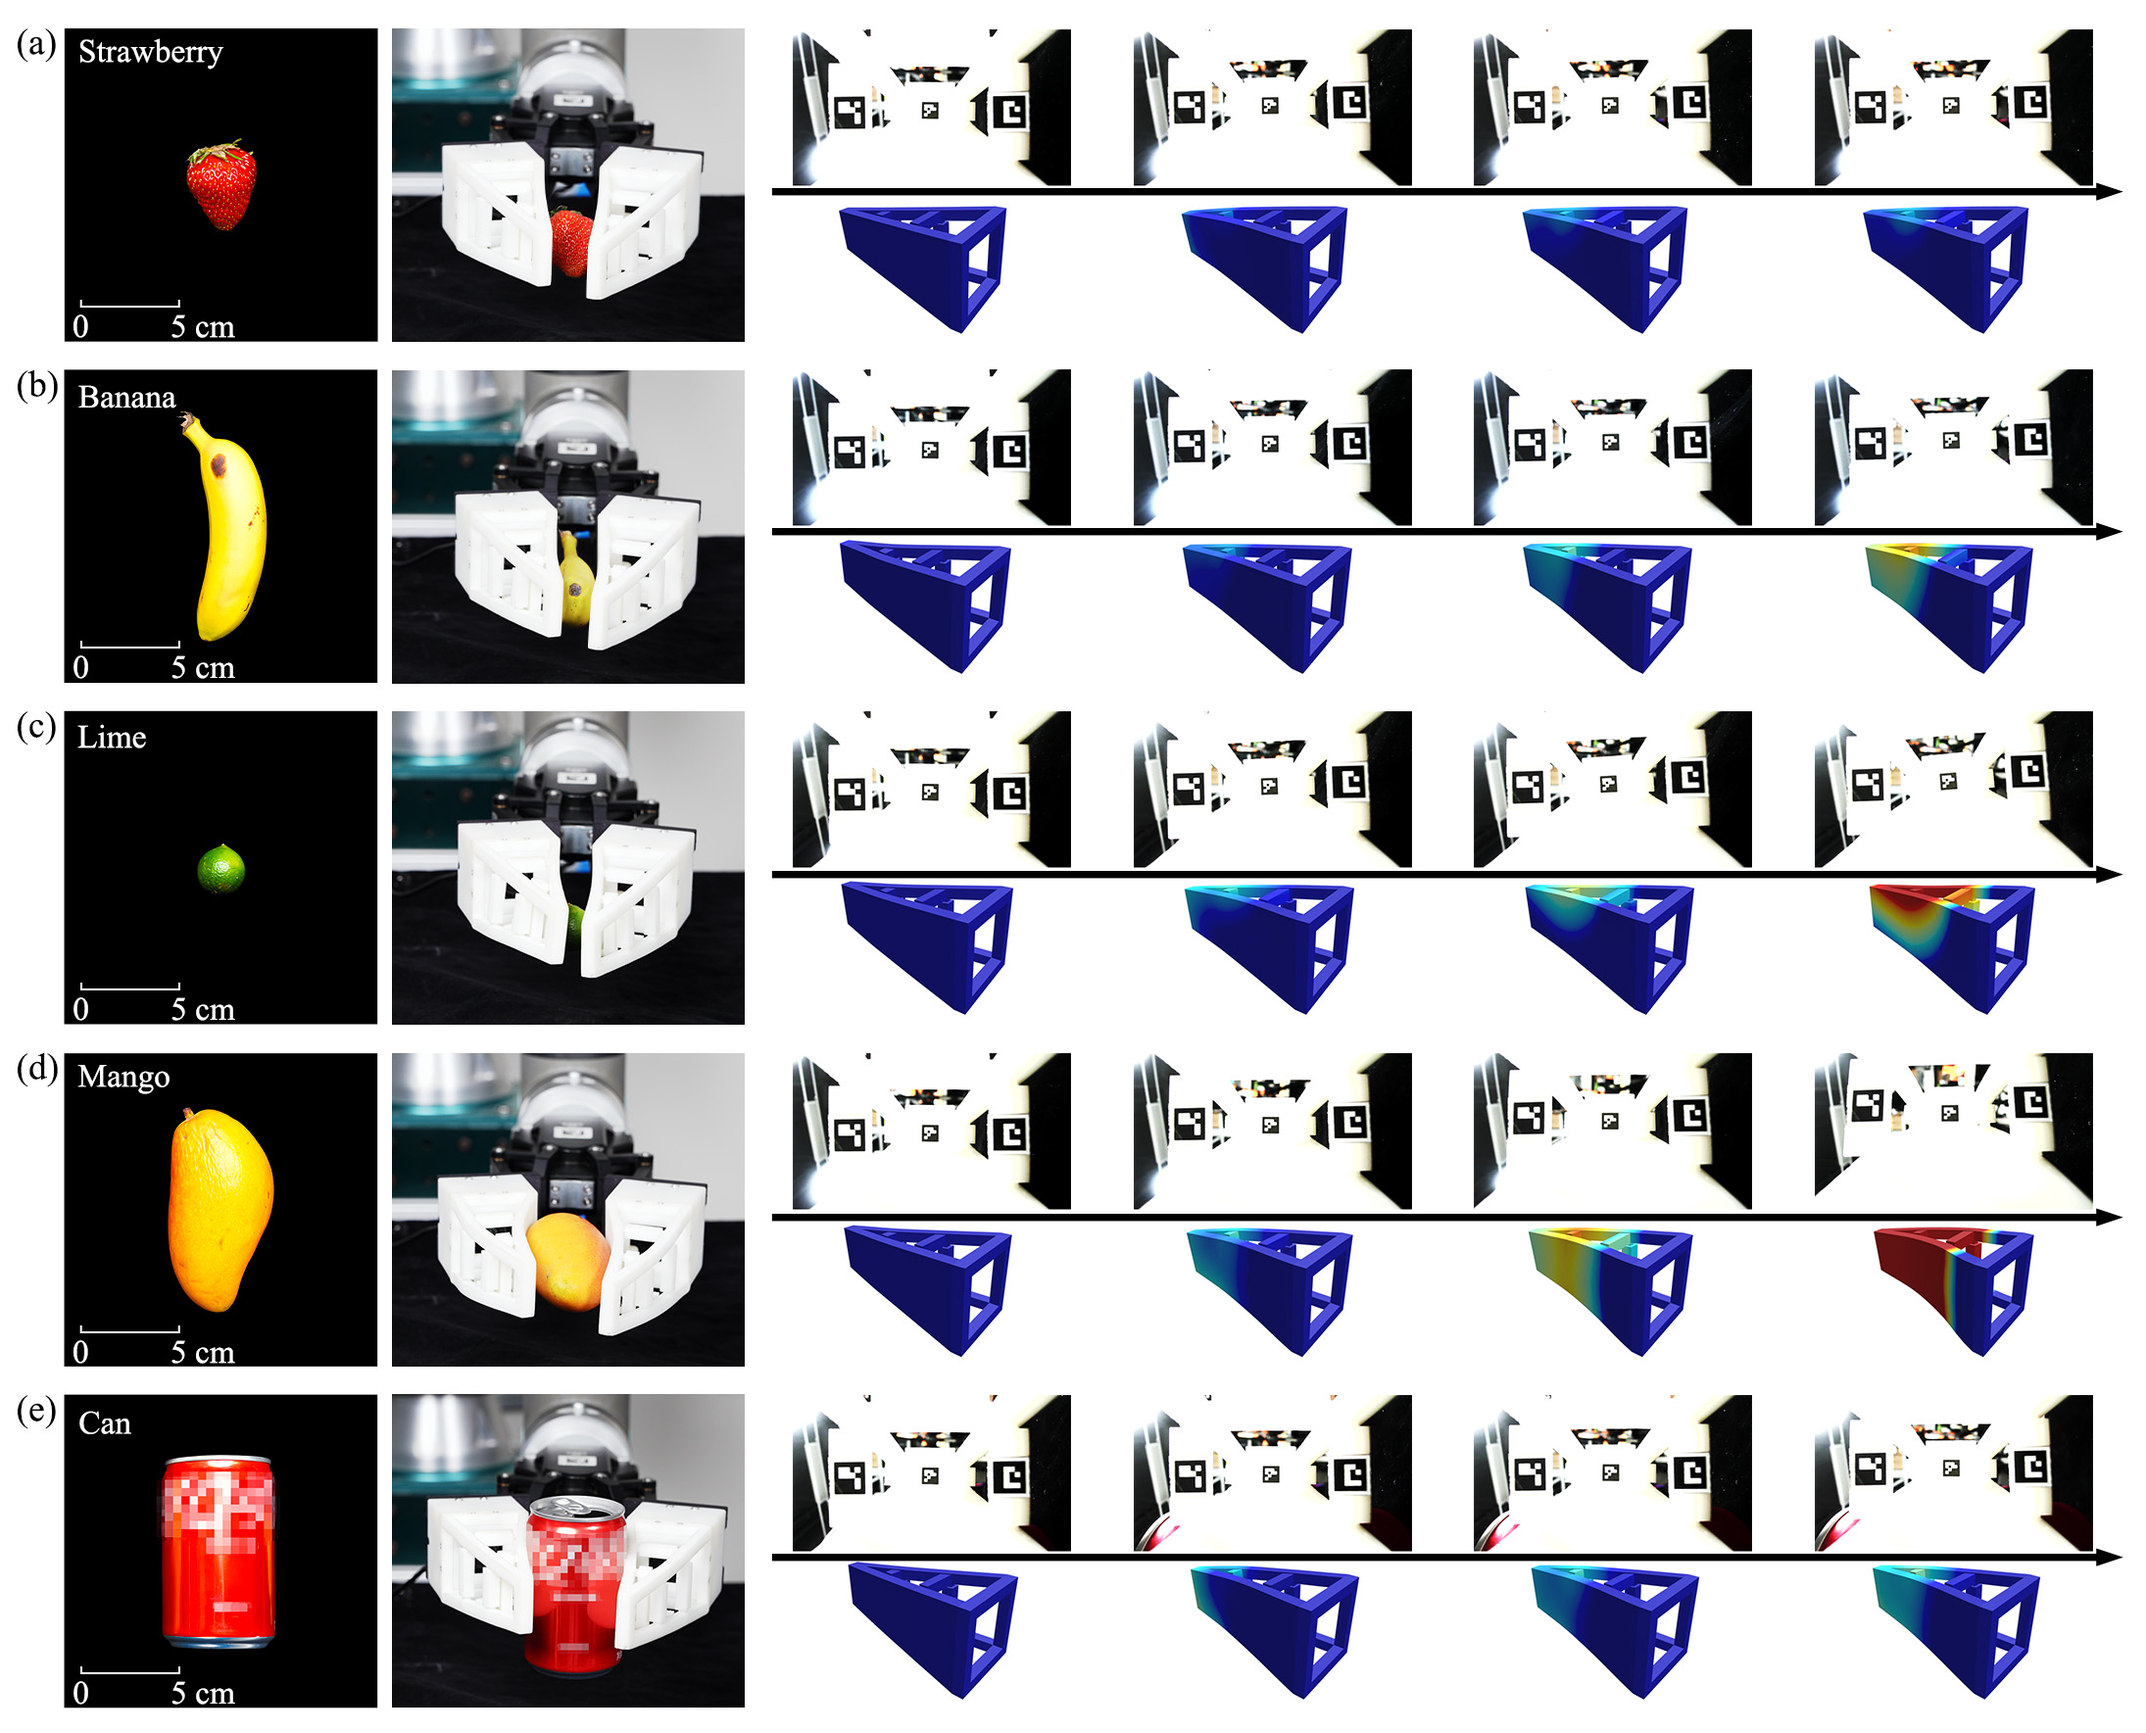
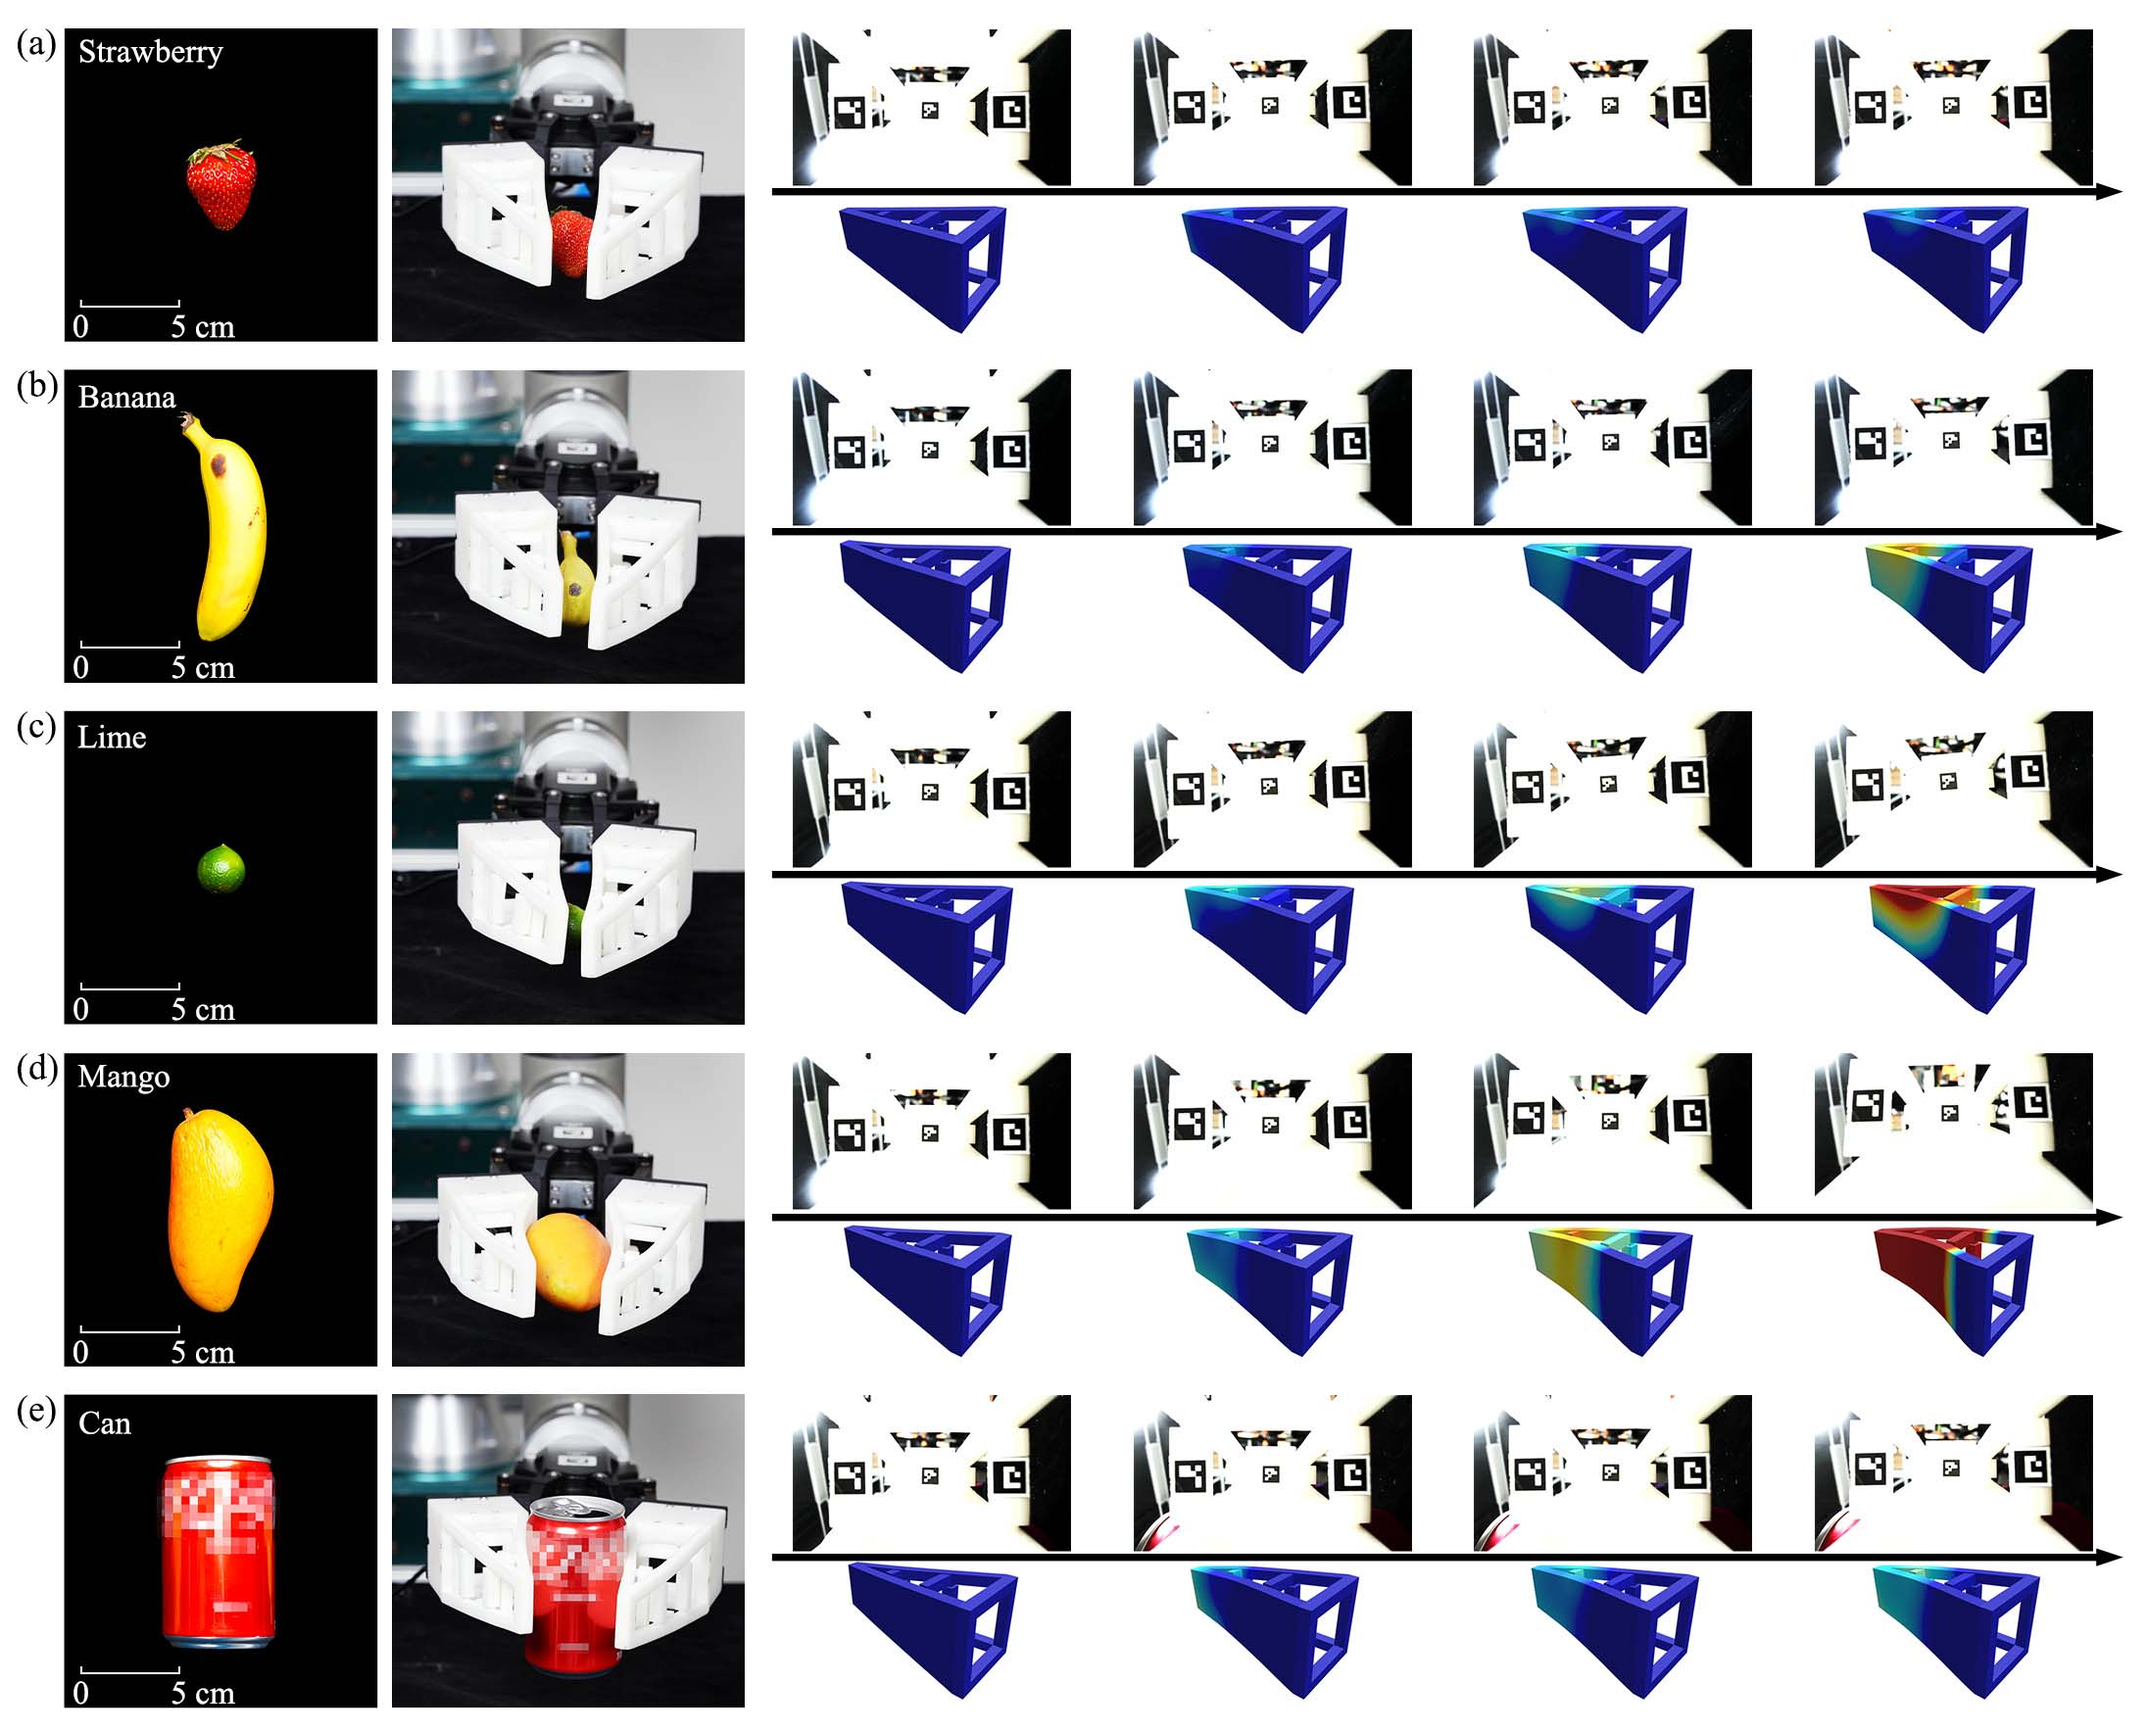
new file:   images/adaptive_grasp.jpg 	deleted:    images/adaptive_grasp.png 	new file:   images/contact_path.jpg 	deleted:    images/contact_path.png 	new file:   images/finger_design.jpg 	deleted:    images/finger_design.png 	new file:   images/force_estimation.jpg 	deleted:    images/force_estima

diff --git a/index.html b/index.html
@@ -162,7 +162,7 @@
             </p>
           </div>
           <div class="content">
-            <img src="images/finger_design.png" width="1000px" alt="finger design"></img>
+            <img src="images/finger_design.jpg" width="1000px" alt="finger design"></img>
           </div>
           <div class="content">
             <video poster="" id="soft_finger" autoplay muted loop controls width="100%">
@@ -198,7 +198,7 @@
             </p>
           </div>
           <div class="content">
-            <img src="images/shape_estimation.png" width="1000px" alt="finger design"></img>
+            <img src="images/shape_estimation.jpg" width="1000px" alt="finger design"></img>
           </div>
           <div class="content">
             <video poster="" id="shape_estimation" autoplay muted loop controls width="100%">
@@ -234,7 +234,7 @@
             </p>
           </div>
           <div class="content">
-            <img src="images/force_estimation.png" width="1000px" alt="finger design"></img>
+            <img src="images/force_estimation.jpg" width="1000px" alt="finger design"></img>
           </div>
         </div>
       </div>
@@ -265,7 +265,7 @@
             </p>
           </div>
           <div class="content">
-            <img src="images/sim_touch_learning.png" width="800px" alt="deform model"></img>
+            <img src="images/sim_touch_learning.jpg" width="800px" alt="deform model"></img>
           </div>
           <br />
           <h3 class="title is-4">Estimation of Touch Perception using Real-World Data</h3>
@@ -288,7 +288,7 @@
             </p>
           </div>
           <div class="content">
-            <img src="images/real_touch_learning.png" width="800px" alt="comparison with abaqus and arap"></img>
+            <img src="images/real_touch_learning.jpg" width="800px" alt="comparison with abaqus and arap"></img>
           </div>
         </div>
       </div>
@@ -348,7 +348,7 @@
             </video>
           </div>
           <div class="content">
-            <img src="images/hri.png" width="100%" alt="human-robot collaboration"></img>
+            <img src="images/hri.jpg" width="100%" alt="human-robot collaboration"></img>
           </div>
           <div class="content has-text-justified">
             <p>
